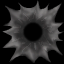
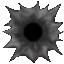
*** empty log message ***
git-svn-id: http://svn.code.sf.net/p/actiongame/code/trunk@915 e016b1c5-ed68-44aa-a2f7-31cac88cffde

diff --git a/ac/source/src/renderparticles.cpp b/ac/source/src/renderparticles.cpp
@@ -2,12 +2,12 @@
 
 #include "cube.h"
 
-#define MAXPARTYPES 7
+#define MAXPARTYPES 8
 
 struct particle { vec o, d; int fade, type; int millis; particle *next; };
 particle *parlist[MAXPARTYPES], *parempty = NULL;
 
-static Texture *parttex[3];
+static Texture *parttex[4];
 
 void particleinit()
 {
@@ -16,7 +16,8 @@ void particleinit()
     parttex[0] = textureload("packages/misc/base.png");
     parttex[1] = textureload("packages/misc/smoke.png");
     parttex[2] = textureload("packages/misc/explosion.jpg");
-   
+    parttex[3] = textureload("packages/misc/hole.png");
+
     GLUquadricObj *qsphere = gluNewQuadric();
     if(!qsphere) fatal("glu sphere");
     gluQuadricDrawStyle(qsphere, GLU_FILL);
@@ -69,7 +70,8 @@ enum
 {
     PT_PART = 0,
     PT_FIREBALL,
-    PT_SHOTLINE
+    PT_SHOTLINE,
+    PT_DECAL
 };
 
 static struct parttype { int type; float r, g, b; int gr, tex; float sz; } parttypes[] =
@@ -80,7 +82,8 @@ static struct parttype { int type; float r, g, b; int gr, tex; float sz; } partt
     { 0,           1.0f, 0.1f, 0.1f, 1,  1, 0.06f }, // red:    blood spats
     { 0,           1.0f, 0.1f, 0.1f, 0,  1, 0.2f  }, // red:    demotrack
     { PT_FIREBALL, 1.0f, 1.0f, 1.0f, 0,  2, 7.0f  }, // explosion fireball
-    { PT_SHOTLINE, 1.0f, 1.0f, 0.7f, 0, -1, 0.0f  }  // yellow: shotline
+    { PT_SHOTLINE, 1.0f, 1.0f, 0.7f, 0, -1, 0.0f  }, // yellow: shotline
+    { PT_DECAL,    1.0f, 1.0f, 1.0f, 0,  3, 0.07f }, // hole decal     
 };
 
 VAR(demotracking, 0, 0, 1);
@@ -127,6 +130,11 @@ void render_particles(int time)
                 glColor4f(pt.r, pt.g, pt.b, 0.5f);
                 glBegin(GL_LINES);
                 break;
+
+            case PT_DECAL:
+                glBlendFunc(GL_SRC_ALPHA, GL_ONE_MINUS_SRC_ALPHA);
+                glBegin(GL_QUADS);
+                break;
         }
          
         for(particle *p, **pp = &parlist[i]; (p = *pp);)
@@ -134,10 +142,10 @@ void render_particles(int time)
             switch(pt.type)
             {
                 case PT_PART:
-                    glTexCoord2i(0, 1); glVertex3f(p->o.x+(-camright.x+camup.x)*sz, p->o.z+(-camright.y+camup.y)*sz, p->o.y+(-camright.z+camup.z)*sz);
-                    glTexCoord2i(1, 1); glVertex3f(p->o.x+( camright.x+camup.x)*sz, p->o.z+( camright.y+camup.y)*sz, p->o.y+( camright.z+camup.z)*sz);
-                    glTexCoord2i(1, 0); glVertex3f(p->o.x+( camright.x-camup.x)*sz, p->o.z+( camright.y-camup.y)*sz, p->o.y+( camright.z-camup.z)*sz);
-                    glTexCoord2i(0, 0); glVertex3f(p->o.x+(-camright.x-camup.x)*sz, p->o.z+(-camright.y-camup.y)*sz, p->o.y+(-camright.z-camup.z)*sz);
+                    glTexCoord2i(0, 1); glVertex3f(p->o.x+(-camright.x+camup.x)*sz, p->o.z+(-camright.z+camup.z)*sz, p->o.y+(-camright.y+camup.y)*sz);
+                    glTexCoord2i(1, 1); glVertex3f(p->o.x+( camright.x+camup.x)*sz, p->o.z+( camright.z+camup.z)*sz, p->o.y+( camright.y+camup.y)*sz);
+                    glTexCoord2i(1, 0); glVertex3f(p->o.x+( camright.x-camup.x)*sz, p->o.z+( camright.z-camup.z)*sz, p->o.y+( camright.y-camup.y)*sz);
+                    glTexCoord2i(0, 0); glVertex3f(p->o.x+(-camright.x-camup.x)*sz, p->o.z+(-camright.z-camup.z)*sz, p->o.y+(-camright.y-camup.y)*sz);
                     xtraverts += 4;
                     break;
                 
@@ -160,6 +168,20 @@ void render_particles(int time)
                     glVertex3f(p->d.x, p->d.z, p->d.y);
                     xtraverts += 2;
                     break;
+
+                case PT_DECAL:
+                {
+                    sqr *s = S((int)p->o.x, (int)p->o.y);
+                    glColor4f(s->r/127.5f, s->g/127.5f, s->b/127.5, max(0, min((p->millis+p->fade - lastmillis)/1000.0f, 0.7f)));
+                    vec dx(0, 0, 0), dy(0, 0, 0);
+                    loopk(3) if(p->d[k]) { dx[(k+1)%3] = -1; dy[(k+2)%3] = p->d[k]; break; } 
+                    glTexCoord2i(0, 1); glVertex3f(p->o.x+(-dx.x+dy.x)*pt.sz, p->o.z+(-dx.z+dy.z)*pt.sz, p->o.y+(-dx.y+dy.y)*pt.sz);
+                    glTexCoord2i(1, 1); glVertex3f(p->o.x+( dx.x+dy.x)*pt.sz, p->o.z+( dx.z+dy.z)*pt.sz, p->o.y+( dx.y+dy.y)*pt.sz);
+                    glTexCoord2i(1, 0); glVertex3f(p->o.x+( dx.x-dy.x)*pt.sz, p->o.z+( dx.z-dy.z)*pt.sz, p->o.y+( dx.y-dy.y)*pt.sz);
+                    glTexCoord2i(0, 0); glVertex3f(p->o.x+(-dx.x-dy.x)*pt.sz, p->o.z+(-dx.z-dy.z)*pt.sz, p->o.y+(-dx.y-dy.y)*pt.sz);
+                    xtraverts += 4;
+                    break;
+                }
             }
 
             if(lastmillis-p->millis>p->fade)
@@ -171,12 +193,12 @@ void render_particles(int time)
             else
             {
 			    if(pt.gr) p->o.z -= ((lastmillis-p->millis)/3.0f)*time/(pt.gr*10000);
-                if(pt.type!=PT_SHOTLINE) p->o.add(vec(p->d).mul(time/20000.0f));
+                if(pt.type==PT_PART) p->o.add(vec(p->d).mul(time/20000.0f));
                 pp = &p->next;
             }
         }
            
-        if(pt.type==PT_PART || pt.type==PT_SHOTLINE) glEnd();
+        if(pt.type==PT_PART || pt.type==PT_SHOTLINE || pt.type==PT_DECAL) glEnd();
         if(pt.tex<0) glEnable(GL_TEXTURE_2D);
     }
 
@@ -224,6 +246,23 @@ void particle_trail(int type, int fade, vec &s, vec &e)
 void particle_fireball(int type, vec &o)
 {
     newparticle(o, vec(0, 0, 0), (int)((parttypes[type].sz-1.0f)*100.0f), type);
+}
+
+VARP(holettl, 0, 10000, 30000);
+
+bool addbullethole(vec &from, vec &to, float radius)
+{
+    if(!holettl) return false;
+    vec surface, ray(to);
+    ray.sub(from);
+    ray.normalize();
+    float dist = raycube(from, ray, surface), mag = to.dist(from);
+    if(surface.iszero() || (radius>0 && (dist < mag-radius || dist > mag+radius))) return false;
+    vec o(from);
+    o.add(ray.mul(dist));
+    o.add(vec(surface).mul(0.005f));
+    newparticle(o, surface, holettl, 7);
+    return true;
 }
 
 void addshotline(dynent *pl, vec &from, vec &to)

diff --git a/ac/source/src/physics.cpp b/ac/source/src/physics.cpp
@@ -5,6 +5,59 @@
 
 #include "cube.h"
 
+float raycube(const vec &o, const vec &ray, vec &surface)
+{
+    surface = vec(0, 0, 0);
+
+    if(ray.iszero()) return -1;
+
+    vec v = o;
+    float dist = 0, dx = 0, dy = 0, dz = 0;
+
+    for(;;)
+    {
+        int x = int(v.x), y = int(v.y);
+        if(x < 0 || y < 0 || x >= ssize || y >= ssize) return -1;
+        sqr *s = S(x, y);
+        float floor = s->floor, ceil = s->ceil;
+        if(s->type==FHF) floor -= s->vdelta/4.0f;
+        if(s->type==CHF) ceil += s->vdelta/4.0f;
+        if(SOLID(s) || v.z < floor || v.z > ceil) 
+        { 
+            if((!dx && !dy) || s->wtex==DEFAULT_SKY || (!SOLID(s) && v.z > ceil && s->ctex==DEFAULT_SKY)) return -1;
+            if(s->type!=CORNER)// && s->type!=FHF && s->type!=CHF)
+            {
+                if(dx<dy) surface.x = ray.x>0 ? -1 : 1;
+                else surface.y = ray.y>0 ? -1 : 1;
+                sqr *n = S(x+(int)surface.x, y+(int)surface.y);
+                if(SOLID(n) || (v.z < floor && v.z < n->floor) || (v.z > ceil && v.z > n->ceil))
+                {
+                    surface = dx<dy ? vec(0, ray.y>0 ? -1 : 1, 0) : vec(ray.x>0 ? -1 : 1, 0, 0);
+                    n = S(x+(int)surface.x, y+(int)surface.y);
+                    if(SOLID(n) || (v.z < floor && v.z < n->floor) || (v.z > ceil && v.z > n->ceil))
+                        surface = vec(0, 0, ray.z>0 ? -1 : 1);
+                }
+            }
+            dist = max(dist-0.1f, 0);
+            break;
+        }
+        dx = ray.x ? (x + (ray.x > 0 ? 1 : 0) - v.x)/ray.x : 1e16f;
+        dy = ray.y ? (y + (ray.y > 0 ? 1 : 0) - v.y)/ray.y : 1e16f;
+        dz = ray.z ? ((ray.z > 0 ? ceil : floor) - v.z)/ray.z : 1e16f;
+        if(dz < dx && dz < dy)
+        {
+            if(ray.z>0 && s->ctex==DEFAULT_SKY) return -1;
+            if(s->type!=FHF && s->type!=CHF) surface.z = ray.z>0 ? -1 : 1;
+            dist += dz;
+            break;
+        }
+        float disttonext = 0.1f + min(dx, dy);
+        v.add(vec(ray).mul(disttonext));
+        dist += disttonext;
+    } 
+    return dist;    
+} 
+
 bool plcollide(physent *d, physent *o, float &headspace, float &hi, float &lo)          // collide with player or monster
 {
     if(o->state!=CS_ALIVE) return true;

diff --git a/ac/source/src/rendergl.cpp b/ac/source/src/rendergl.cpp
@@ -331,8 +331,6 @@ void drawhudgun(int w, int h, float aspect, int farplane)
 {
     if(scoped && player1->gunselect==GUN_SNIPER) return;
     
-    glEnable(GL_CULL_FACE);
-   
     glMatrixMode(GL_PROJECTION);
     glLoadIdentity();
     gluPerspective((float)100.0f*h/w, aspect, 0.3f, farplane); // fov fixed at 100°
@@ -345,8 +343,6 @@ void drawhudgun(int w, int h, float aspect, int farplane)
     glLoadIdentity();
     gluPerspective((float)fov*h/w, aspect, 0.15f, farplane);
     glMatrixMode(GL_MODELVIEW);
-
-    glDisable(GL_CULL_FACE);
 }
 
 bool outsidemap(physent *pl)
@@ -368,8 +364,8 @@ void readmatrices()
     glGetIntegerv(GL_VIEWPORT, viewport);
     glGetDoublev(GL_MODELVIEW_MATRIX, mm);
     glGetDoublev(GL_PROJECTION_MATRIX, pm);
-    camright = vec(float(mm[0]), float(mm[4]), float(mm[8]));
-    camup = vec(float(mm[1]), float(mm[5]), float(mm[9]));
+    camright = vec(float(mm[0]), float(mm[8]), float(mm[4]));
+    camup = vec(float(mm[1]), float(mm[9]), float(mm[5]));
 }
 
 // stupid function to cater for stupid ATI linux drivers that return incorrect depth values

diff --git a/ac/source/src/weapon.cpp b/ac/source/src/weapon.cpp
@@ -522,6 +522,11 @@ void shootv(int gun, vec &from, vec &to, playerent *d, bool local, int nademilli
         case GUN_SHOTGUN:
         {
             loopi(SGRAYS) particle_splash(0, 5, 200, sg[i]);
+            if(addbullethole(from, to))
+            {
+                int holes = 3+rnd(5);
+                loopi(holes) addbullethole(from, sg[i], 0);
+            }
             break;
         }
 
@@ -529,6 +534,7 @@ void shootv(int gun, vec &from, vec &to, playerent *d, bool local, int nademilli
         case GUN_SUBGUN:
         case GUN_ASSAULT:
 		{
+            addbullethole(from, to);
             addshotline(d, from, to);
             particle_splash(0, 5, 250, to);
             break;
@@ -546,6 +552,7 @@ void shootv(int gun, vec &from, vec &to, playerent *d, bool local, int nademilli
             
         case GUN_SNIPER: 
 		{
+            addbullethole(from, to);
             addshotline(d, from, to);
             particle_splash(0, 50, 200, to);
             particle_trail(1, 500, from, to);

diff --git a/ac/source/src/protos.h b/ac/source/src/protos.h
@@ -207,6 +207,7 @@ extern void particle_splash(int type, int num, int fade, vec &p);
 extern void particle_trail(int type, int fade, vec &from, vec &to);
 extern void particle_fireball(int type, vec &o);
 extern void addshotline(dynent *d, vec &from, vec &to);
+extern bool addbullethole(vec &from, vec &to, float radius = 1);
 extern void render_particles(int time);
 
 // worldio
@@ -223,6 +224,7 @@ extern void demodamage(int damage, vec &o);
 extern void demoblend(int damage);
 
 // physics
+extern float raycube(const vec &o, const vec &ray, vec &surface);
 extern void moveplayer(physent *pl, int moveres, bool local);
 extern void moveplayer(physent *pl, int moveres, bool local, int curtime);
 extern bool collide(physent *d, bool spawn, float drop, float rise);

diff --git a/ac/source/src/geom.h b/ac/source/src/geom.h
@@ -13,6 +13,8 @@ struct vec
     float &operator[](int i)       { return v[i]; }
     float  operator[](int i) const { return v[i]; }
 
+    bool iszero() const { return x==0 && y==0 && z==0; }
+
     bool operator==(const vec &o) const { return x == o.x && y == o.y && z == o.z; }
     bool operator!=(const vec &o) const { return x != o.x || y != o.y || z != o.z; }
 
